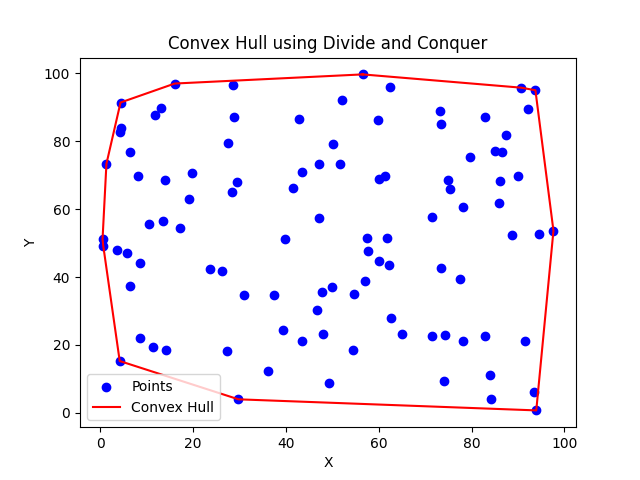
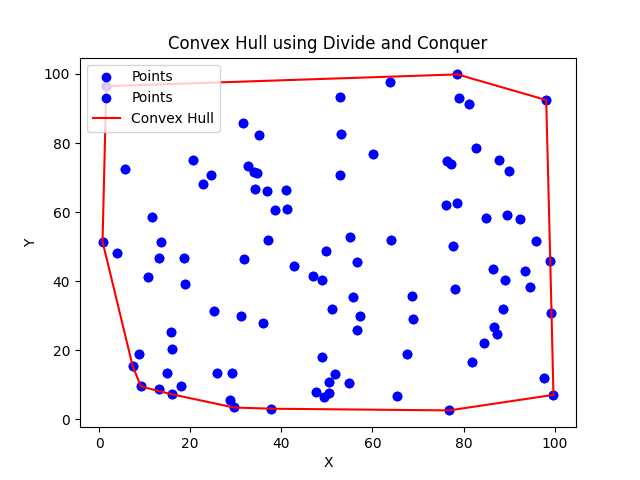
Complete the convex hull exercise

diff --git a/convex_hull/quick_hull_3d.py b/convex_hull/quick_hull_3d.py
@@ -1,0 +1,42 @@
+import numpy as np
+import random
+import matplotlib.pyplot as plt
+
+from scipy.spatial import ConvexHull
+from datetime import datetime
+from mpl_toolkits.mplot3d.art3d import Poly3DCollection
+
+
+def generate_3d_points(num_points):
+    return [(random.uniform(0, 100), random.uniform(0, 100), random.uniform(0, 100)) for _ in range(num_points)]
+
+def plot_convex_hull_3d(points, hull):
+    fig = plt.figure(figsize=(8, 8))
+    ax = fig.add_subplot(111, projection='3d')
+
+    ax.scatter(points[:, 0], points[:, 1], points[:, 2], color='black', label='Points')
+
+    for simplex in hull.simplices:
+        vertices = points[simplex]
+        face = Poly3DCollection([vertices], color='red', alpha=0.5, edgecolor='black')
+        ax.add_collection3d(face)
+
+    ax.set_xlabel('X')
+    ax.set_ylabel('Y')
+    ax.set_zlabel('Z')
+    plt.title("3D Convex Hull")
+    plt.legend()
+    plt.savefig('diagram/quick_hull_3d.png')
+
+
+if __name__ == "__main__":
+    points = np.array(generate_3d_points(80))
+
+    start_time = datetime.now()
+    hull = ConvexHull(points)
+    convex_hull_points = points[hull.vertices]
+    end_time = datetime.now()
+    elapsed_time = end_time - start_time
+
+    print("Elapsed Time:", elapsed_time)
+    plot_convex_hull_3d(points, hull)
